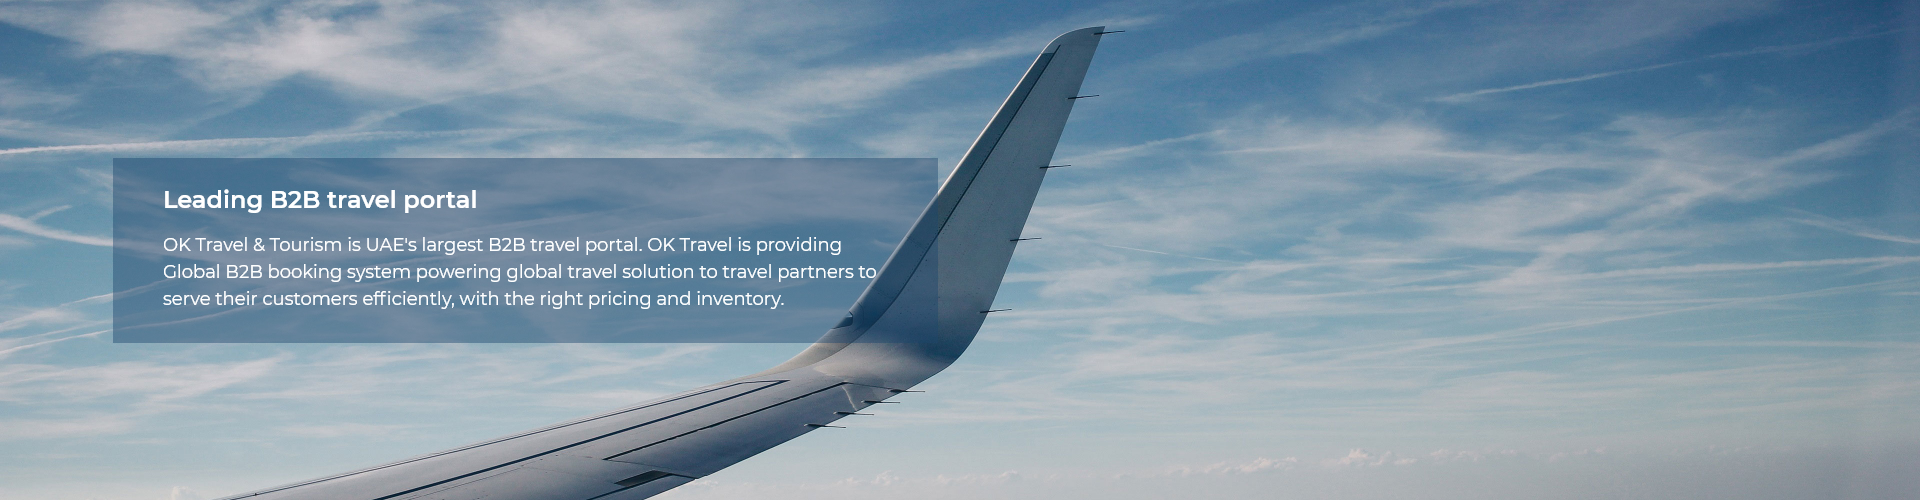
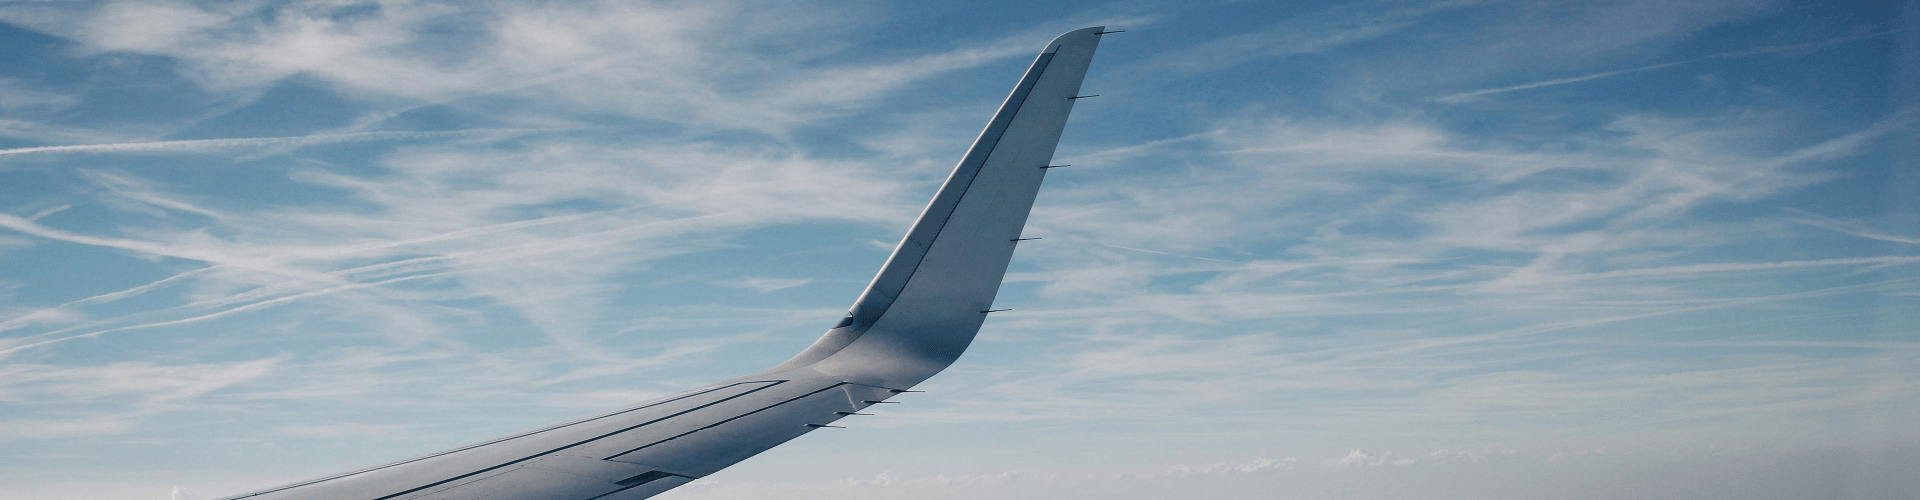
home page responsive ui updated

Changed region(s): [[0.0312, 0.3, 0.5, 0.69]]

diff --git a/src/client/views/home/index.js b/src/client/views/home/index.js
@@ -14,77 +14,79 @@ const Home = () => {
         <Carousel />
       </div>
 
-      <div className="Home-features layout-wrapper-adjust">
-        <div className="Home-features-title font-primary-semibold-30">
-          B2B Travel Services &minus; Technology approach for best travel
-          content &amp; fares to book &amp; earn…
+      <div className="Home-features">
+        <div className="layout-wrapper">
+          <div className="Home-features-title font-primary-semibold-30">
+            B2B Travel Services &minus; Technology approach for best travel
+            content &amp; fares to book &amp; earn…
+          </div>
+          <Grid container spacing={8}>
+            <Grid item xs={3} className="Home-features-single">
+              <div className="d-flex align-items-end py-44 Home-features-single__icon">
+                <img src={utils.displayImage('feature1.svg')} />
+              </div>
+              <Text
+                showLeftBorder
+                text="TRAVEL SERVICES"
+                className="font-primary-medium-20 mb-22"
+              />
+              <span className="Home-features-single__para  font-primary-medium-18_1">
+                It offers multiple travel services, connected with multiple
+                providers including GDS and Airlines, offering wide range of
+                content at best possible prices including best deals…
+              </span>
+            </Grid>
+
+            <Grid item xs={3} className="Home-features-single">
+              <div className="d-flex align-items-end py-44 Home-features-single__icon">
+                <img src={utils.displayImage('feature2.svg')} />
+              </div>
+
+              <Text
+                showLeftBorder
+                text="SCALING DISTRIBUTION"
+                className="font-primary-medium-20 mb-22"
+              />
+              <span className="Home-features-single__para  font-primary-medium-18_1">
+                It offers agencies to create multiple level of sub agencies to
+                increase their reach of distribution and in turn increasing sales
+                and earnings from increased bookings…
+              </span>
+            </Grid>
+
+            <Grid item xs={3} className="Home-features-single">
+              <div className="d-flex align-items-end py-44 Home-features-single__icon">
+                <img src={utils.displayImage('feature3.svg')} />
+              </div>
+              <Text
+                showLeftBorder
+                text="AUTOMATED TRAVEL PROCESSES"
+                className="font-primary-medium-20 mb-22"
+              />
+              <span className="Home-features-single__para  font-primary-medium-18_1">
+                It offers the complete automation of all travel processes
+                including booking, cancellation, rebooking, sub agents, branches,
+                users, security features and many others…
+              </span>
+            </Grid>
+
+            <Grid item xs={3} className="Home-features-single">
+              <div className="d-flex align-items-end py-44 Home-features-single__icon">
+                <img src={utils.displayImage('feature4.svg')} />
+              </div>
+              <Text
+                showLeftBorder
+                text="MULTIPLE CURRENCIES"
+                className="font-primary-medium-20 mb-22"
+              />
+              <span className="Home-features-single__para  font-primary-medium-18_1">
+                It offers transactions and deposits to be done in multiple
+                currencies with multiple forms of payments including credit limit,
+                credit card, cash, wallets, and others…
+              </span>
+            </Grid>
+          </Grid>
         </div>
-        <Grid container spacing={8}>
-          <Grid item xs={3} className="Home-features-single">
-            <div className="d-flex align-items-end py-44 Home-features-single__icon">
-              <img src={utils.displayImage('feature1.svg')} />
-            </div>
-            <Text
-              showLeftBorder
-              text="TRAVEL SERVICES"
-              className="font-primary-medium-20 mb-22"
-            />
-            <span className="Home-features-single__para  font-primary-medium-18_1">
-              It offers multiple travel services, connected with multiple
-              providers including GDS and Airlines, offering wide range of
-              content at best possible prices including best deals…
-            </span>
-          </Grid>
-
-          <Grid item xs={3} className="Home-features-single">
-            <div className="d-flex align-items-end py-44 Home-features-single__icon">
-              <img src={utils.displayImage('feature2.svg')} />
-            </div>
-
-            <Text
-              showLeftBorder
-              text="SCALING DISTRIBUTION"
-              className="font-primary-medium-20 mb-22"
-            />
-            <span className="Home-features-single__para  font-primary-medium-18_1">
-              It offers agencies to create multiple level of sub agencies to
-              increase their reach of distribution and in turn increasing sales
-              and earnings from increased bookings…
-            </span>
-          </Grid>
-
-          <Grid item xs={3} className="Home-features-single">
-            <div className="d-flex align-items-end py-44 Home-features-single__icon">
-              <img src={utils.displayImage('feature3.svg')} />
-            </div>
-            <Text
-              showLeftBorder
-              text="AUTOMATED TRAVEL PROCESSES"
-              className="font-primary-medium-20 mb-22"
-            />
-            <span className="Home-features-single__para  font-primary-medium-18_1">
-              It offers the complete automation of all travel processes
-              including booking, cancellation, rebooking, sub agents, branches,
-              users, security features and many others…
-            </span>
-          </Grid>
-
-          <Grid item xs={3} className="Home-features-single">
-            <div className="d-flex align-items-end py-44 Home-features-single__icon">
-              <img src={utils.displayImage('feature4.svg')} />
-            </div>
-            <Text
-              showLeftBorder
-              text="MULTIPLE CURRENCIES"
-              className="font-primary-medium-20 mb-22"
-            />
-            <span className="Home-features-single__para  font-primary-medium-18_1">
-              It offers transactions and deposits to be done in multiple
-              currencies with multiple forms of payments including credit limit,
-              credit card, cash, wallets, and others…
-            </span>
-          </Grid>
-        </Grid>
       </div>
     </div>
   );

diff --git a/src/client/components/Home/Carousel/index.js b/src/client/components/Home/Carousel/index.js
@@ -7,6 +7,7 @@ import { utils } from 'Helpers';
 import SignInForm from 'Components/Users/Agent/SignIn';
 import ForgotPasswordForm from 'Components/Users/Agent/ForgotPassword';
 import ResetPasswordForm from 'Components/Users/Agent/ResetPassword';
+import { Text } from 'Widgets/';
 
 import 'slick-carousel/slick/slick.css';
 import 'slick-carousel/slick/slick-theme.css';
@@ -32,26 +33,40 @@ const Carousel = () => {
   };
 
   return (
-    <div className="Carousel">
+    <div className="Carousel position-relative">
       <Slider {...settings}>
-        <div className="Carousel-getStarted"></div>
+        <div className="Carousel-getStarted" />
       </Slider>
-      <div
-        className={`Carousel-form ${
-          selectedForm === 'SignInForm' ? 'top-115' : 'top-154'
-        } ${isResetPassword ? 'top-148' : ''}`}
-      >
-        <div className="Carousel-getStarted-right">
-          {isResetPassword ? (
-            <ResetPasswordForm />
-          ) : selectedForm === 'SignInForm' ? (
-            <SignInForm setSelectedForm={setSelectedForm} />
-          ) : (
-            <ForgotPasswordForm
-              setSelectedForm={setSelectedForm}
-              selectedForm={selectedForm}
+      <div className="Carousel-content layout-wrapper">
+        <div className="d-flex justify-content-between align-items-center height-100">
+          <div className="Carousel-content__left">
+            <Text
+              className="title font-primary-bold-26"
+              text="Leading B2B travel portal"
             />
-          )}
+            <Text
+              className="description"
+              text="OK Travel & Tourism is UAE's largest B2B travel portal. OK Travel is providing Global B2B booking system powering global travel solution to travel partners to serve their customers efficiently, with the right pricing and inventory."
+            />
+          </div>
+          <div
+            className={`Carousel-form ${
+              selectedForm === 'SignInForm' ? 'top-115' : 'top-154'
+            } ${isResetPassword ? 'top-148' : ''}`}
+          >
+            <div className="Carousel-getStarted-right">
+              {isResetPassword ? (
+                <ResetPasswordForm />
+              ) : selectedForm === 'SignInForm' ? (
+                <SignInForm setSelectedForm={setSelectedForm} />
+              ) : (
+                <ForgotPasswordForm
+                  setSelectedForm={setSelectedForm}
+                  selectedForm={selectedForm}
+                />
+              )}
+            </div>
+          </div>
         </div>
       </div>
     </div>

diff --git a/src/client/components/Home/Carousel/style.scss b/src/client/components/Home/Carousel/style.scss
@@ -1,3 +1,4 @@
+@import './../../../styles/variables';
 @import './../../../styles/functions';
 $root: '.Carousel';
 
@@ -10,6 +11,7 @@ $root: '.Carousel';
     height: 495px;
     position: relative;
     background-image: url('../../../../../public/assets/images/home-banner.png');
+    background-size: cover;
 
     &-right {
       width: 350px;
@@ -17,9 +19,21 @@ $root: '.Carousel';
       background-color: white;
     }
   }
-  &-form {
+  &-content {
     position: absolute;
-    right: 144px;
+    top: 0;
+    right: 0;
+    left: 0;
+    height: 100%;
+    &__left {
+      background-color: rgba(0, 0, 0, 0.3);
+      padding: calculateRem(25px) calculateRem(40px);
+      max-width: 540px;
+      color: $white;
+      .title {
+        margin-bottom: 8px;
+      }
+    }
   }
 }
 
@@ -30,9 +44,6 @@ $root: '.Carousel';
         width: calculateRem(350px);
         padding: calculateRem(32px) calculateRem(32px);
       }
-    }
-    &-form {
-      right: calculateRem(80px);
     }
   }
 }

diff --git a/src/client/styles/global.scss b/src/client/styles/global.scss
@@ -404,7 +404,7 @@ p {
 .font-primary-bold-26 {
   @extend .font-primary-bold;
   font-size: calculateRem(26px);
-  line-height: calculateRem(25px);
+  line-height: calculateRem(30px);
 }
 
 .font-primary-italic-14 {
